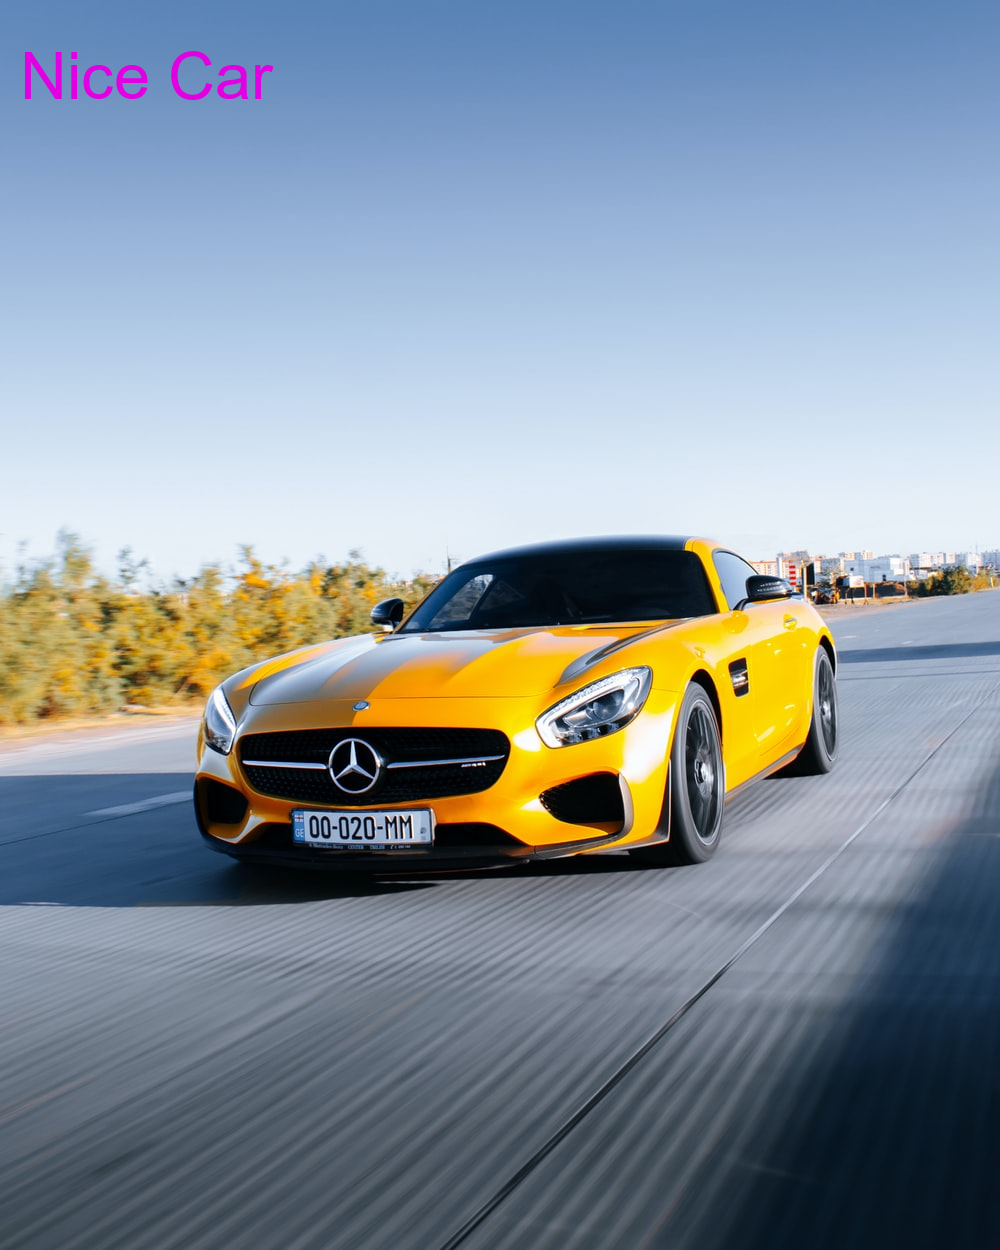
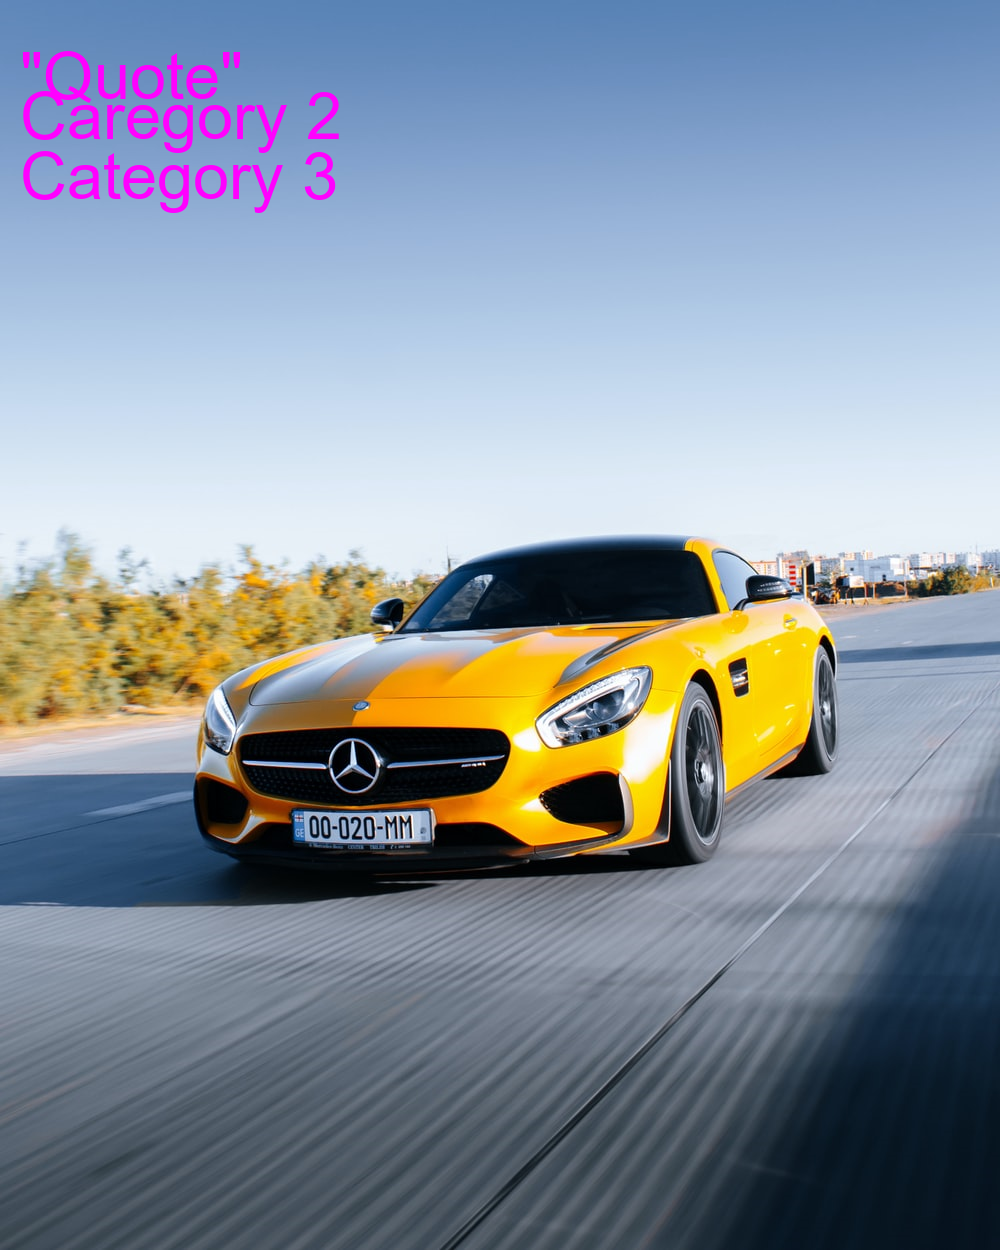
more efficient text adder

Changed region(s): [[0.0, 0.0312, 0.279, 0.1872], [0.31, 0.0624, 0.341, 0.156]]

diff --git a/imageProcessor.py b/imageProcessor.py
@@ -5,39 +5,38 @@ src1 = "sources/car.png"
 img = Image.open(src1)
 src2 = "sources/text.txt"
 text = open(src2, "r")
+Lines = text.readlines()    #each line is read into an array as a new objec
 
-try:
-    # Call draw Method to add 2D graphics in an image
-    I1 = ImageDraw.Draw(img)
-    
-    # Custom font style and font size
-    #myFont = ImageFont.load_default()
-    fontSize = 65
-    fontType = "arial"              #"arial" for Windows, "Arial" for Mac
-    myFont = ImageFont.truetype(fontType, fontSize)
-    
-    textPosition = (20, 40) # (x, y) from top left
-    textContents = "Nice Car"
-    fontColour = (225,0,225) #rgb colour values
-    I1.text(textPosition, textContents, font=myFont, fill =fontColour)
-except OSError:
-    # Call draw Method to add 2D graphics in an image
-    I1 = ImageDraw.Draw(img)
-    
-    # Custom font style and font size
-    #myFont = ImageFont.load_default()
-    fontSize = 65
-    fontType = "Arial"              #"arial" for Windows, "Arial" for Mac
-    myFont = ImageFont.truetype(fontType, fontSize)
-    
-    textPosition = (20, 40) # (x, y) from top left
-    textContents = "Nice Car"
-    fontColour = (225,0,225) #rgb colour values
-    I1.text(textPosition, textContents, font=myFont, fill =fontColour)
+def drawWords(text, x, y, R, G, B, size):
+    try:
+        # Call draw Method to add 2D graphics in an image
+        I1 = ImageDraw.Draw(img)
+        # Custom font style and font size
+        #myFont = ImageFont.load_default()
+        fontType = "arial"              #"arial" for Windows, "Arial" for Mac
+        myFont = ImageFont.truetype(fontType, size)
+        textPosition = (x, y) # (x, y) from top left
+        fontColour = (R,G,B) #rgb colour values
+        I1.text(textPosition, text, font=myFont, fill =fontColour)
+    except OSError:
+        # Call draw Method to add 2D graphics in an image
+        I1 = ImageDraw.Draw(img)
+        # Custom font style and font size
+        #myFont = ImageFont.load_default()
+        fontType = "Arial"              #"arial" for Windows, "Arial" for Mac
+        myFont = ImageFont.truetype(fontType, size)
+        textPosition = (x, y) # (x, y) from top left
+        fontColour = (R,G,B) #rgb colour values
+        I1.text(textPosition, text, font=myFont, fill =fontColour)
 
-    
+        
+
+drawWords(Lines[0], 20, 40, 255, 0, 255, 65)
+
+drawWords(Lines[1], 20, 80, 255, 0, 255, 65)
+
+drawWords(Lines[2], 20, 140, 255, 0, 255, 65)
 
 img.show()  #temporarily shows the created image
 
 img.save("car2.png")    # Save the image
-
